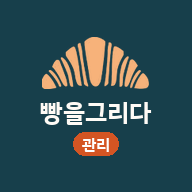
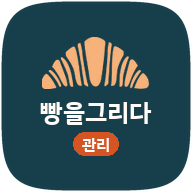
관리·주문 앱 아이콘 모서리를 둥글게 (v216)
Claude-Session: https://claude.ai/code/session_01XLX89XvorZvWjXSNab5iQP

Changed region(s): [[0.0, 0.0, 1.0, 1.0]]

diff --git a/index.html b/index.html
@@ -1272,8 +1272,8 @@ break;case"<bookViews":;case"<bookViews>":;case"</bookViews>":break;case"<workbo
    ═════════════════════════════════════════════════════════════ */
 const APP_NAME = '원료수불부';
 const FILE_NAME = '통합재고관리';   /* v052: 내보내는 파일 이름은 플랫폼 이름으로 */
-const APP_VER  = '215';
-const APP_BUILT = '2026-10-06 11:55';   /* v154: 머리글에 버전·업데이트 시각 표시 — 배포할 때마다 함께 바꿈 */
+const APP_VER  = '216';
+const APP_BUILT = '2026-10-06 12:18';   /* v154: 머리글에 버전·업데이트 시각 표시 — 배포할 때마다 함께 바꿈 */
 try { const hv = document.getElementById('hVer'); if (hv) { hv.textContent = `v${APP_VER} · ${APP_BUILT} 업데이트`; hv.title = '현재 열려 있는 통합 재고관리 버전과 마지막 업데이트 시각'; } } catch (e) {}
 const STORE_KEY = 'wonryo_subulbu_v1';
 

diff --git a/sw.js b/sw.js
@@ -1,5 +1,5 @@
 // 빵을그리다 통합 재고관리 오프라인 캐시 — index.html·finished.html(완제품·생지)·inspect.html(육안검사)은 네트워크 우선(브라우저 HTTP 캐시 우회 → 최신 배포 즉시 반영), 실패 시 캐시
-const CACHE = 'wonryo-v220';
+const CACHE = 'wonryo-v221';
 const ASSETS = ['./', './index.html', './manifest.webmanifest', './admin_192.png', './admin_512.png', './admin_apple.png', './brand_logo.png', './logo_mark.png'];
 self.addEventListener('install', e => { e.waitUntil(caches.open(CACHE).then(c => c.addAll(ASSETS)).then(() => self.skipWaiting())); });
 self.addEventListener('activate', e => { e.waitUntil(caches.keys().then(ks => Promise.all(ks.filter(k => k !== CACHE).map(k => caches.delete(k)))).then(() => self.clients.claim())); });

diff --git a/CLAUDE.md b/CLAUDE.md
@@ -53,6 +53,7 @@
 - v213: 요즘 크롬 ⋮ 메뉴 이름은 「설치 및 바로가기 만들기」 → 뜨는 창에서 「설치」. v202: 크롬 안내는 「앱 설치」(또는 홈 화면에 추가 → 「설치」)로, 「바로가기 만들기」는 주소창이 보이는 바로가기라 고르지 말라고 안내. 크롬 설치 창(beforeinstallprompt)은 화면을 한 번 누르고 30초쯤 지나야 준비되므로, 안내 화면이 열려 있는 동안 준비되면 「지금 바로 설치하기」 버튼이 나타남.
 - v201: 카카오톡 등 앱 안 브라우저(INAPP: KAKAOTALK·NAVER(inapp)·; wv) 등)는 display-mode standalone 으로 보고해서 배너가 숨던 문제 → INAPP이면 설치 앱으로 안 봄. 앱 안이면 배너가 바로 「크롬으로 열기」(안드로이드 intent://…;package=com.android.chrome, 없으면 기본 브라우저) · 아이폰 카톡은 「사파리로 열기」(kakaotalk://web/openExternal). 링크는 ?s=2&t=토큰.
 - 주문서 맨 위 「📲 바탕화면에 앱 설치」 배너(✕ 누르면 7일 숨김, 설치하면 안 보임): 안드로이드 크롬 = 설치 창(beforeinstallprompt), 카카오톡 안 = `kakaotalk://web/openExternal?url=`로 다른 브라우저, 아이폰 = 사파리 공유 → 홈 화면에 추가 안내(아이폰은 manifest를 안 넣어 #t= 주소째로 저장), 삼성 인터넷 = ≡ → 현재 페이지 추가.
+- v216: 아이콘 admin_/order_ 192·512 를 둥근 모서리(초타원, 모서리 투명)로 — 크롬 바로가기로 설치돼도 다른 앱처럼 둥글게. maskable·apple 은 그대로(꽉 찬 사각).
 - v215: 휴대폰 크롬이 지운 앱을 「이미 설치됨」으로 기억해 열리지 않던 것 → 두 manifest id 를 바꿈(관리 ./index.html?pwa=2 · 주문 ./order.html?pwa=2, 새 앱으로 인식). id 는 함부로 바꾸지 말 것(설치된 앱 갱신이 끊김).
 - v214: 관리 앱 manifest scope 를 ./index.html 로 좁힘(예전 ./ 는 order.html 까지 포함해 한 휴대폰에 두 앱이 겹침), sw.js 는 order*·privacy.html 요청을 건드리지 않음.
 - 관리 앱(v200): manifest.webmanifest 아이콘을 admin_192/512/maskable/apple.png(남색 바탕·크루아상·「빵을그리다」·「관리」)로, short_name 「빵을그리다 관리」. 설치 안내 그림은 대화에서 만들어 전달(저장소에 없음).
